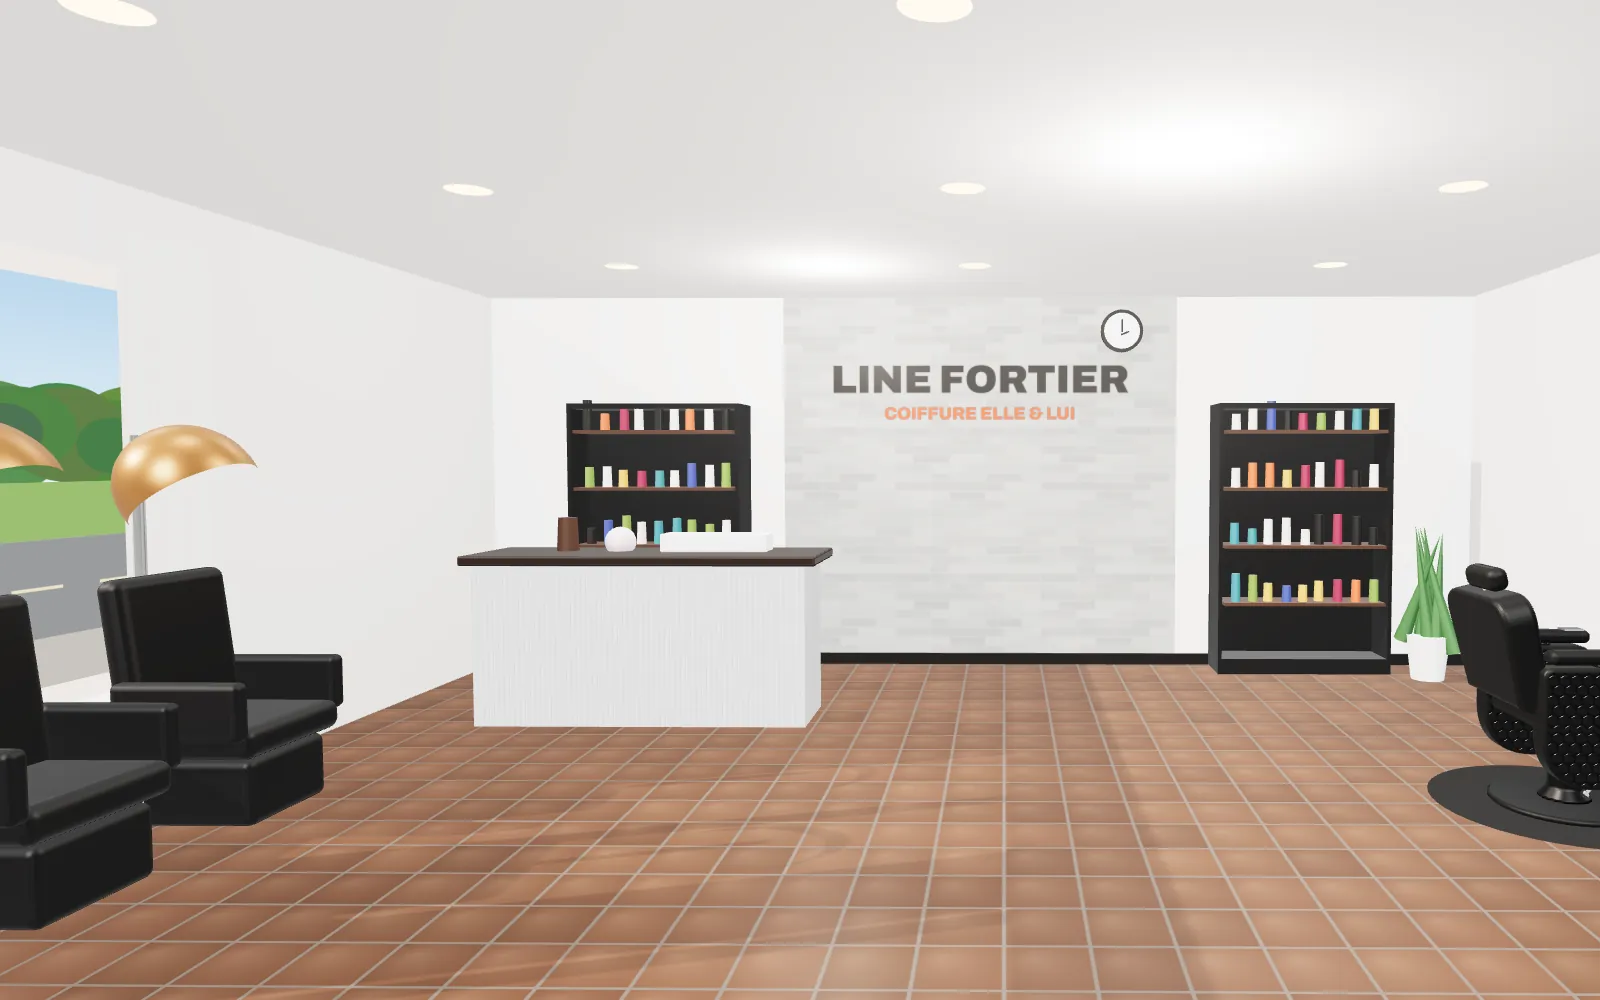
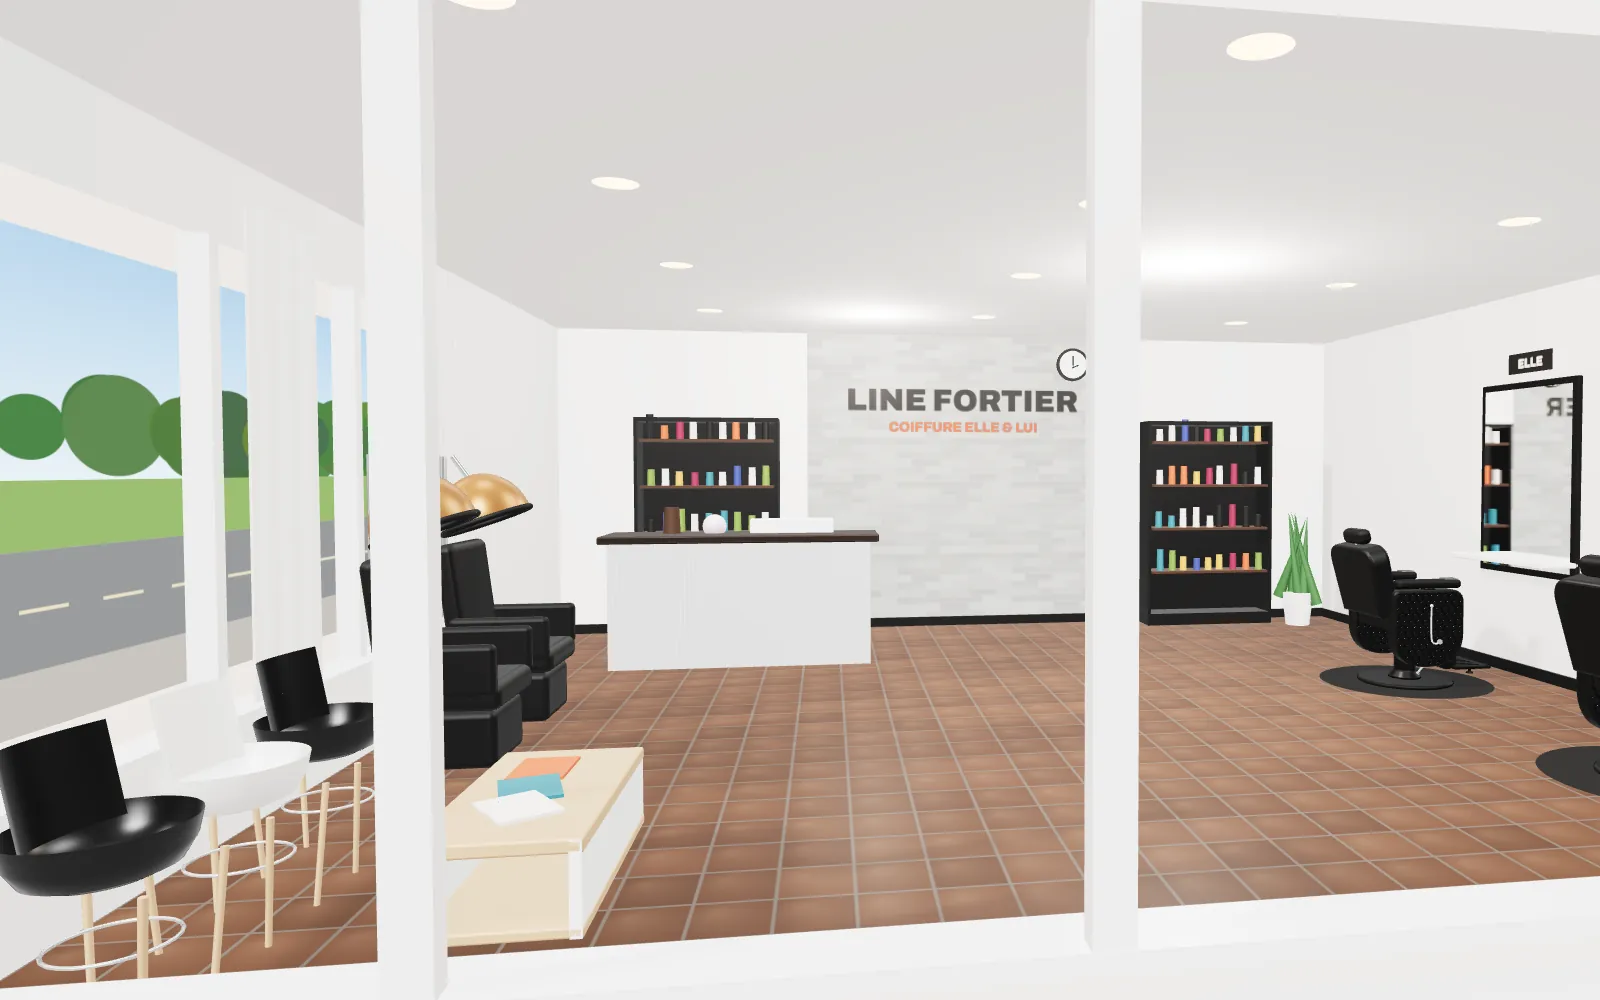
Line Fortier 3D : 2e ronde de revue (titres, repli 3D, ombres douces, chaises d'attente)
Claude-Session: https://claude.ai/code/session_01E8afKLVVNeRaTyCyvKkzxa

diff --git a/clients/line-fortier/salon.js b/clients/line-fortier/salon.js
@@ -16,13 +16,15 @@ const leger = matchMedia('(max-width: 900px), (pointer: coarse)').matches;
 
 let renderer;
 try { renderer = new THREE.WebGLRenderer({ canvas, antialias: !leger, powerPreference: 'high-performance' }); }
-catch (e) { body.classList.add('sans-3d', 'rendu'); throw e; }
+catch (e) { body.classList.add('sans-3d', 'fin-chargement'); throw e; }
 renderer.setPixelRatio(Math.min(devicePixelRatio, leger ? 1.5 : 2));
 renderer.outputColorSpace = THREE.SRGBColorSpace;
 renderer.toneMapping = THREE.ACESFilmicToneMapping;
 renderer.toneMappingExposure = .98;
 renderer.shadowMap.enabled = !leger;
-renderer.shadowMap.type = THREE.PCFSoftShadowMap;
+renderer.shadowMap.type = THREE.VSMShadowMap; // ombres floues : pas de marches d'escalier au soleil
+renderer.shadowMap.autoUpdate = false;           // le soleil ne bouge pas : on recalcule seulement quand une chaise pivote
+renderer.shadowMap.needsUpdate = true;
 etat(10);
 
 const scene = new THREE.Scene();
@@ -245,8 +247,9 @@ function chaiseCoque(couleur, x, z) {
   const coque = new THREE.LatheGeometry(profil, 40);
   coque.scale(1, 1, .92);
   const c = mesh(coque, mat(couleur, .28, { side: THREE.DoubleSide }), [0, .44, -.02], [0, 0, 0], g);
-  const dos = new THREE.SphereGeometry(.25, 32, 12, Math.PI * .05, Math.PI * .9, Math.PI * .3, Math.PI * .2); // dossier relevé
-  mesh(dos, mat(couleur, .28, { side: THREE.DoubleSide }), [0, .42, .02], [-.3, Math.PI, 0], g);
+  // dossier relevé, légèrement courbé
+  const dos = new THREE.CylinderGeometry(.27, .27, .3, 32, 1, true, Math.PI * .72, Math.PI * .56);
+  mesh(dos, mat(couleur, .28, { side: THREE.DoubleSide }), [0, .74, .06], [-.18, 0, 0], g);
   [[-.15, -.15], [.15, -.15], [-.15, .15], [.15, .15]].forEach(([a, b]) => mesh(new THREE.CylinderGeometry(.013, .011, .46, 8), M.bois, [a * 1.2, .22, b * 1.2], [b * .4, 0, -a * .4], g));
   mesh(new THREE.TorusGeometry(.16, .006, 6, 24), M.chrome, [0, .25, 0], [Math.PI / 2, 0, 0], g);
 }
@@ -261,11 +264,11 @@ chaiseCoque(0x161616, -3.45, 2.0); chaiseCoque(0xf1f0ec, -3.45, 2.65); chaiseCoq
 etat(82);
 
 /* ---------- Lumière de jour ---------- */
-scene.add(new THREE.HemisphereLight(0xffffff, 0x8a6a55, 1.15));
-const soleil = new THREE.DirectionalLight(0xfff4e6, 1.9);
+scene.add(new THREE.HemisphereLight(0xffffff, 0x8a6a55, 1.3));
+const soleil = new THREE.DirectionalLight(0xfff4e6, 1.35);
 soleil.position.set(-9, 5.5, 3); soleil.target.position.set(0, 0, .5);
 if (!leger) {
-  soleil.castShadow = true; soleil.shadow.mapSize.set(2048, 2048); soleil.shadow.bias = -.0004; soleil.shadow.normalBias = .03; soleil.shadow.radius = 4;
+  soleil.castShadow = true; soleil.shadow.mapSize.set(2048, 2048); soleil.shadow.bias = -.0004; soleil.shadow.normalBias = .03; soleil.shadow.radius = 10; soleil.shadow.blurSamples = 16;
   Object.assign(soleil.shadow.camera, { left: -4.6, right: 4.6, top: 4.2, bottom: -4.2, near: 4, far: 17 });
 }
 scene.add(soleil, soleil.target);
@@ -342,6 +345,7 @@ function image(t) {
     }
     let d = vise - s.rotation.y; d = Math.atan2(Math.sin(d), Math.cos(d));
     s.rotation.y += d * (reduit ? 1 : 1 - Math.exp(-dt * 4));
+    if (Math.abs(d) > .002) renderer.shadowMap.needsUpdate = true;
   });
 
   // points cliquables projetés sur les chaises

diff --git a/clients/line-fortier/index.html b/clients/line-fortier/index.html
@@ -90,7 +90,7 @@
           <p class="kicker">Les deux chaises</p>
           <h2 id="t-services" class="titre3">
             <span class="lh"><span class="ajuste">Une chaise</span></span>
-            <span class="lh contour"><span class="ajuste">pour elle,</span></span>
+            <span class="lh contour"><span class="ajuste">pour elle</span></span>
             <span class="lh accent"><span class="ajuste">une pour lui</span></span>
           </h2>
         </div>
@@ -176,8 +176,8 @@
         <div class="s-tete">
           <p class="kicker">Au comptoir</p>
           <h2 id="t-questions" class="titre3">
-            <span class="lh"><span class="ajuste">Vos</span></span>
-            <span class="lh contour"><span class="ajuste">questions,</span></span>
+            <span class="lh"><span class="ajuste">Toutes vos</span></span>
+            <span class="lh contour"><span class="ajuste">questions</span></span>
             <span class="lh accent"><span class="ajuste">nos réponses</span></span>
           </h2>
         </div>
@@ -267,6 +267,6 @@
 
   <script src="main.js"></script>
   <script type="importmap">{"imports":{"three":"./vendor/three/three.module.min.js","three/addons/":"./vendor/three/addons/"}}</script>
-  <script type="module" src="salon.js"></script>
+  <script type="module" src="demarrage.js"></script>
 </body>
 </html>

diff --git a/clients/line-fortier/style.css b/clients/line-fortier/style.css
@@ -156,7 +156,7 @@ body:not([data-arret="entree"]) .indice { opacity: 0; }
 .note { margin-top: 16px; font-size: 14px; color: var(--gris); }
 
 /* Méthode */
-.methode { list-style: none; padding: 0; counter-reset: m; display: grid; gap: 14px; position: relative; }
+.methode { margin-top: 22px; list-style: none; padding: 0; counter-reset: m; display: grid; gap: 14px; position: relative; }
 .methode::before { content: ""; position: absolute; left: 15px; top: 8px; bottom: 8px; width: 2px; background: var(--filet); }
 .methode::after { content: ""; position: absolute; left: 15px; top: 8px; width: 2px; height: calc((100% - 16px) * var(--remplir, 0)); background: var(--cuivre); }
 .methode li { counter-increment: m; position: relative; padding-left: 46px; font-size: 16px; line-height: 1.5; }

diff --git a/clients/line-fortier/demarrage.js b/clients/line-fortier/demarrage.js
@@ -1,0 +1,2 @@
+/* Charge la scène 3D ; si le module ne peut pas être chargé (réseau, navigateur), on garde l'affiche. */
+import('./salon.js').catch(() => document.body.classList.add('sans-3d', 'fin-chargement'));
